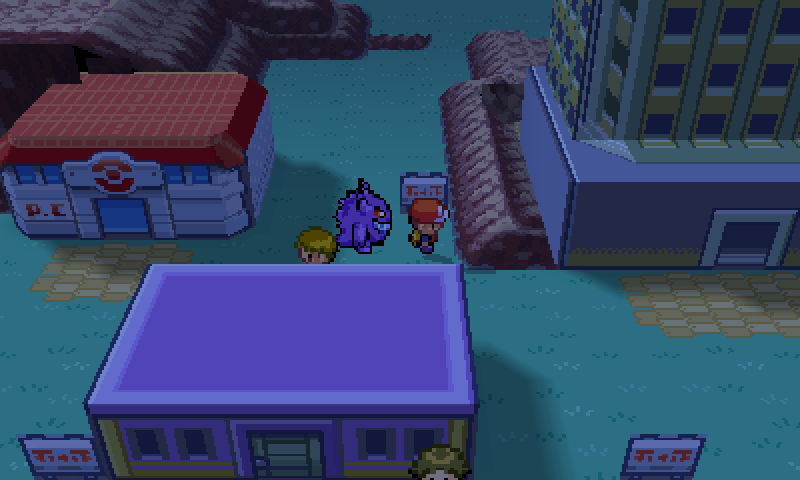
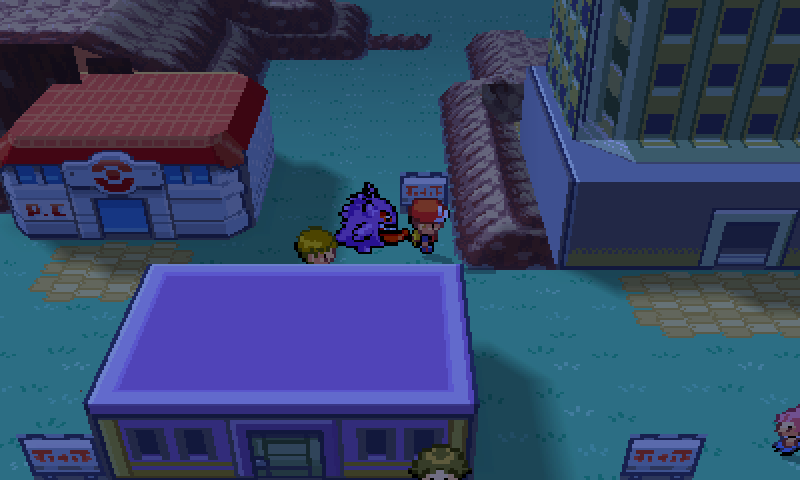
README: new screenshots, Silph Co. and the Pokémon Mansion added

diff --git a/README.md b/README.md
@@ -16,7 +16,7 @@ own dump of your own Pokémon FireRed cartridge.
 ## Screenshots
 
 <p align="center">
-  <img src="docs/screenshots/dual-screen.png" alt="Cerulean City on the top screen, the region map, menu and party on the bottom screen" width="400">
+  <img src="docs/screenshots/dual-screen.png" alt="Cerulean City with Charmeleon following on the top screen, the region map, party and menu on the bottom screen" width="400">
 </p>
 
 <table>
@@ -35,6 +35,10 @@ own dump of your own Pokémon FireRed cartridge.
   <tr>
     <td><img src="docs/screenshots/viridian-forest.png" alt="Viridian Forest with Butterfree following"><br><sub>Viridian Forest</sub></td>
     <td><img src="docs/screenshots/mt-moon.png" alt="Mt. Moon with Clefairy following"><br><sub>Mt. Moon</sub></td>
+  </tr>
+  <tr>
+    <td><img src="docs/screenshots/silph-co.png" alt="Silph Co. with Porygon following"><br><sub>Silph Co.</sub></td>
+    <td><img src="docs/screenshots/pokemon-mansion.png" alt="Pokémon Mansion with Growlithe following"><br><sub>Pokémon Mansion</sub></td>
   </tr>
 </table>
 
